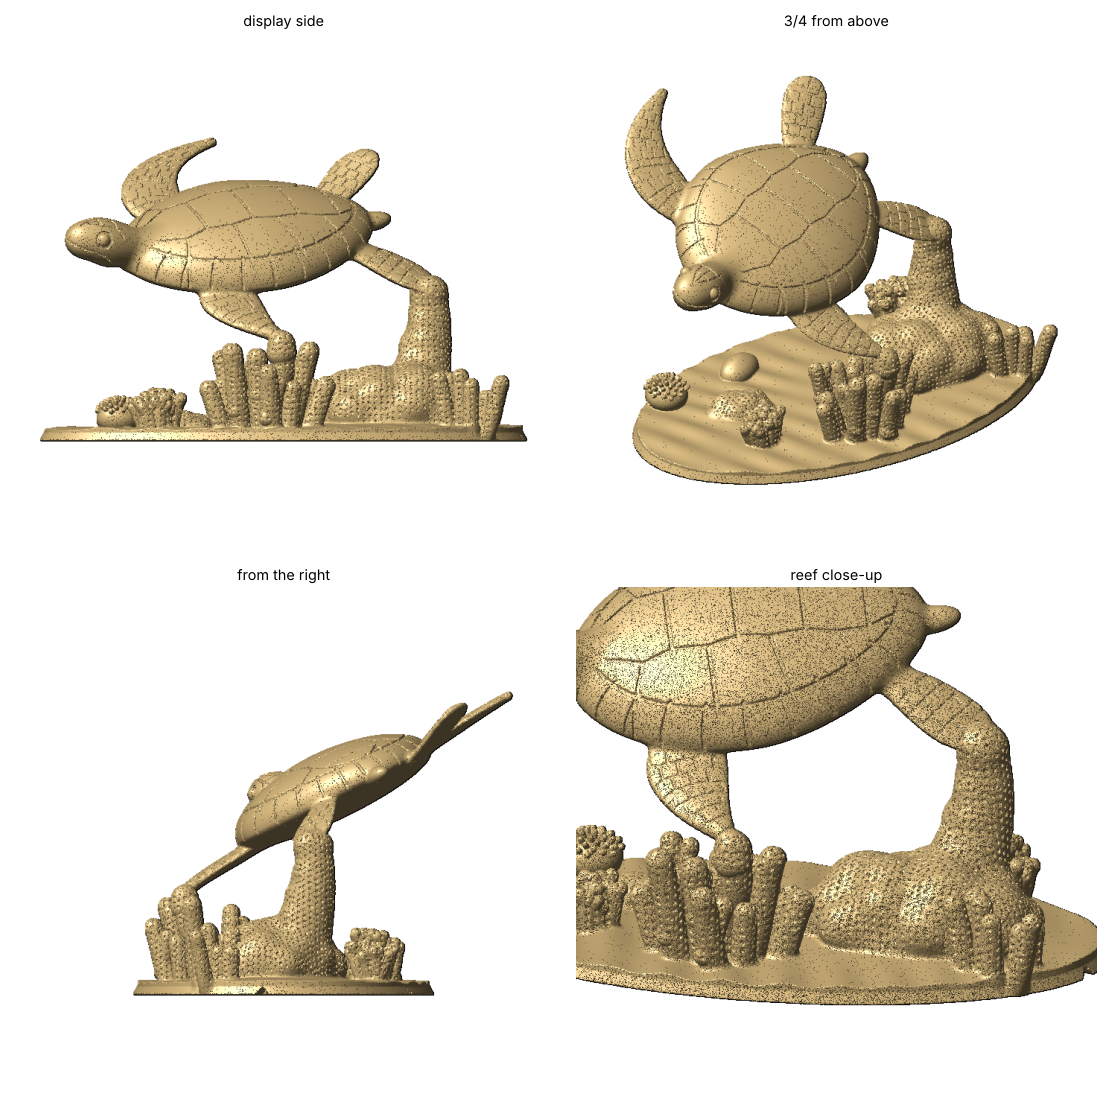
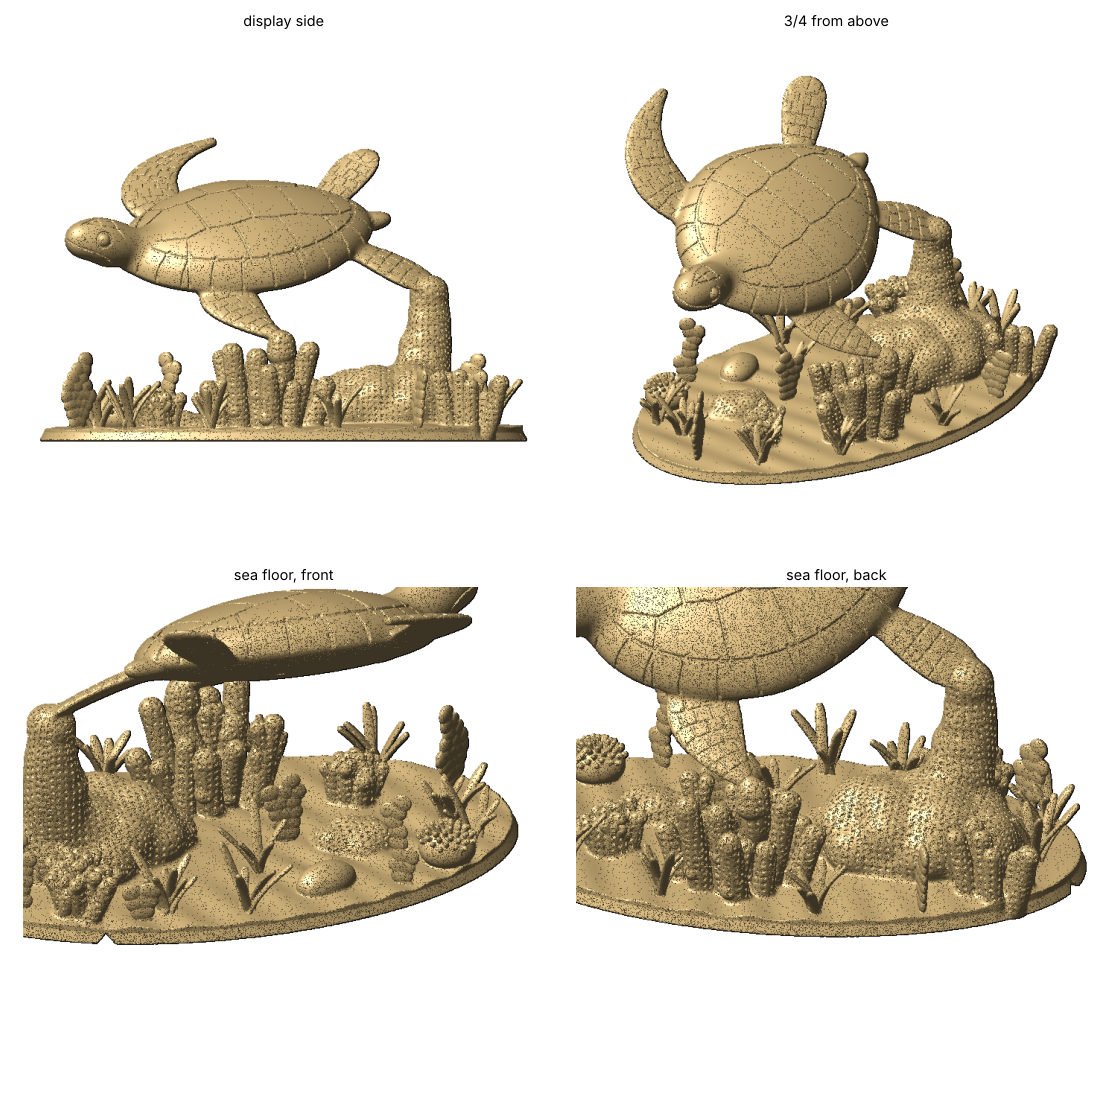
Honu: seagrass tufts and Halimeda limu on the sea floor
Claude-Session: https://claude.ai/code/session_017ftLatXiQgThsoC1M9thCT

diff --git a/3d-prints/honu/honu.py b/3d-prints/honu/honu.py
@@ -60,6 +60,8 @@ REAR_TIP_LOCAL = np.array([-42.0, 27.0, -9.0])       # left rear flipper trails 
 CAULI2 = np.array([34.0, 12.0])                      # a second, smaller cauliflower clump
 FINGERS2 = np.array([-50.0, 17.0])                   # a small finger clump at the back
 KNOLL = np.array([28.0, -8.0])                       # a small lobe-coral knoll
+SEAGRASS = [(50, -4), (-55, -12), (20, 31), (-20, -29), (4, -16), (42, 22), (-14, 33), (52, -14), (-56, 2), (-4, -33)]
+HALIMEDA = [(32, -30), (-26, -31), (-36, 28), (14, -4), (55, 10), (-50, -18)]
 
 
 # -------------------------------------------------------------- helpers
@@ -270,6 +272,65 @@ def corallite_pits(x, y, z, d, n, s=1.6, r=0.42, depth=0.4):
     cell = np.sqrt(np.maximum(np.einsum("...i,...i->...", f, f) - along ** 2, 0)) * s
     wgt = np.clip((n[..., 2] + 0.35) / 0.3, 0, 1)      # fade out on overhangs
     return np.maximum(d, np.minimum(r - cell, d + depth * wgt))
+
+
+def seagrass(where, seed):
+    """A tuft of seagrass: ribbon blades rising from the sand and leaning
+    out, curving gently; each blade climbs all the way so its tip is its
+    highest point."""
+    rng = np.random.default_rng(seed)
+    gz = sand(*where) - 1.2
+    out = []
+    n = rng.integers(5, 9)
+    for i in range(n):
+        a = 2 * np.pi * i / n + rng.uniform(-0.4, 0.4)
+        L = rng.uniform(9, 16)
+        e0, e1 = np.radians(rng.uniform(70, 85)), np.radians(rng.uniform(40, 60))
+        h = np.array([np.cos(a), np.sin(a), 0])
+        d0, d1 = np.cos(e0) * h + np.sin(e0) * UP, np.cos(e1) * h + np.sin(e1) * UP
+        p0 = np.array([where[0] + rng.normal(0, 0.8), where[1] + rng.normal(0, 0.8), gz])
+        sp = bezier(p0, p0 + 0.4 * L * d0, p0 + 0.4 * L * d0 + 0.35 * L * d1, p0 + 0.4 * L * d0 + 0.62 * L * d1, n=12)
+        s_ = np.linspace(0, 1, 12)
+        chord = 1.0 * (0.8 + 0.2 * np.clip(s_ / 0.2, 0, 1)) * np.sqrt(np.clip(1 - (np.clip(s_ - 0.8, 0, 1) / 0.21) ** 2, 0.05, 1))
+        thick = np.full(12, 0.45)
+        out.append(paddle(sp, np.maximum(chord, 0.55), thick))
+    return out
+
+
+def halimeda(where, seed):
+    """Halimeda limu: short branching chains of coin-like segments standing
+    edge-up in one plane, each resting on the one below."""
+    rng = np.random.default_rng(seed)
+    a = rng.uniform(0, np.pi)
+    e1 = np.array([np.cos(a), np.sin(a), 0])
+    nrm = np.cross(UP, e1)
+    discs = []
+
+    def chain(p, ang, n):
+        for _ in range(n):
+            d = np.cos(ang) * e1 + np.sin(ang) * UP
+            p = p + 2.5 * d
+            discs.append(p.copy())
+            if rng.uniform() < 0.25 and n > 2:            # fork, both arms climbing at 60 degrees or more
+                chain(p, np.radians(rng.uniform(62, 75)), n - 2)
+                ang = np.radians(rng.uniform(105, 118))
+            else:
+                ang = np.clip(ang + rng.normal(0, 0.12), np.radians(62), np.radians(118))
+    base = np.array([where[0], where[1], sand(*where) - 0.6])
+    discs.append(base.copy())
+    for k in range(3):
+        chain(base + e1 * rng.normal(0, 0.8), np.radians(70 + 20 * k + rng.uniform(-5, 5)), int(rng.integers(3, 6)))
+    D = np.array(discs)
+
+    def f(x, y, z):
+        d = np.full(x.shape, 3.0)
+        for c in D:
+            qx, qy, qz = x - c[0], y - c[1], z - c[2]
+            u = qx * e1[0] + qy * e1[1]
+            w = qx * nrm[0] + qy * nrm[1]
+            d = np.minimum(d, ell(u, qz, w, 2.1, 1.9, 0.8))
+        return d
+    return f, (D.min(0) - 3, D.max(0) + 3)
 
 
 def urchin_sdf():
@@ -574,6 +635,16 @@ def build(voxel, stems=(), quiet=False, region=None):
     say(f"  coral {time.time() - t0:.0f}s")
     for f, (a, b) in (urchin_sdf(), cowrie_sdf()):
         add(vol, xs, ys, zs, a, b, f, k=0.8, chunk=16)
+    # sea floor plants: seagrass tufts and Halimeda limu
+    for i, w in enumerate(HALIMEDA):
+        f, (a, b) = halimeda(np.array(w, float), 50 + i)
+        add(vol, xs, ys, zs, a, b, f, k=0, chunk=16)
+    for i, w in enumerate(SEAGRASS):
+        for pf, (a, b), _ in seagrass(np.array(w, float), 70 + i):
+            add(vol, xs, ys, zs, a, b,
+                lambda x, y, z, pf=pf: pf(np.stack([x.ravel(), y.ravel(), z.ravel()], -1))[0].reshape(x.shape),
+                k=0, chunk=16)
+    say(f"  seagrass and limu {time.time() - t0:.0f}s")
     # hollow the lobe mound: a domed cavity open to the plate (its roof
     # closes inward, so it needs no support), drained by two tunnels with
     # 45-degree pitched roofs running under the sand to the rim
